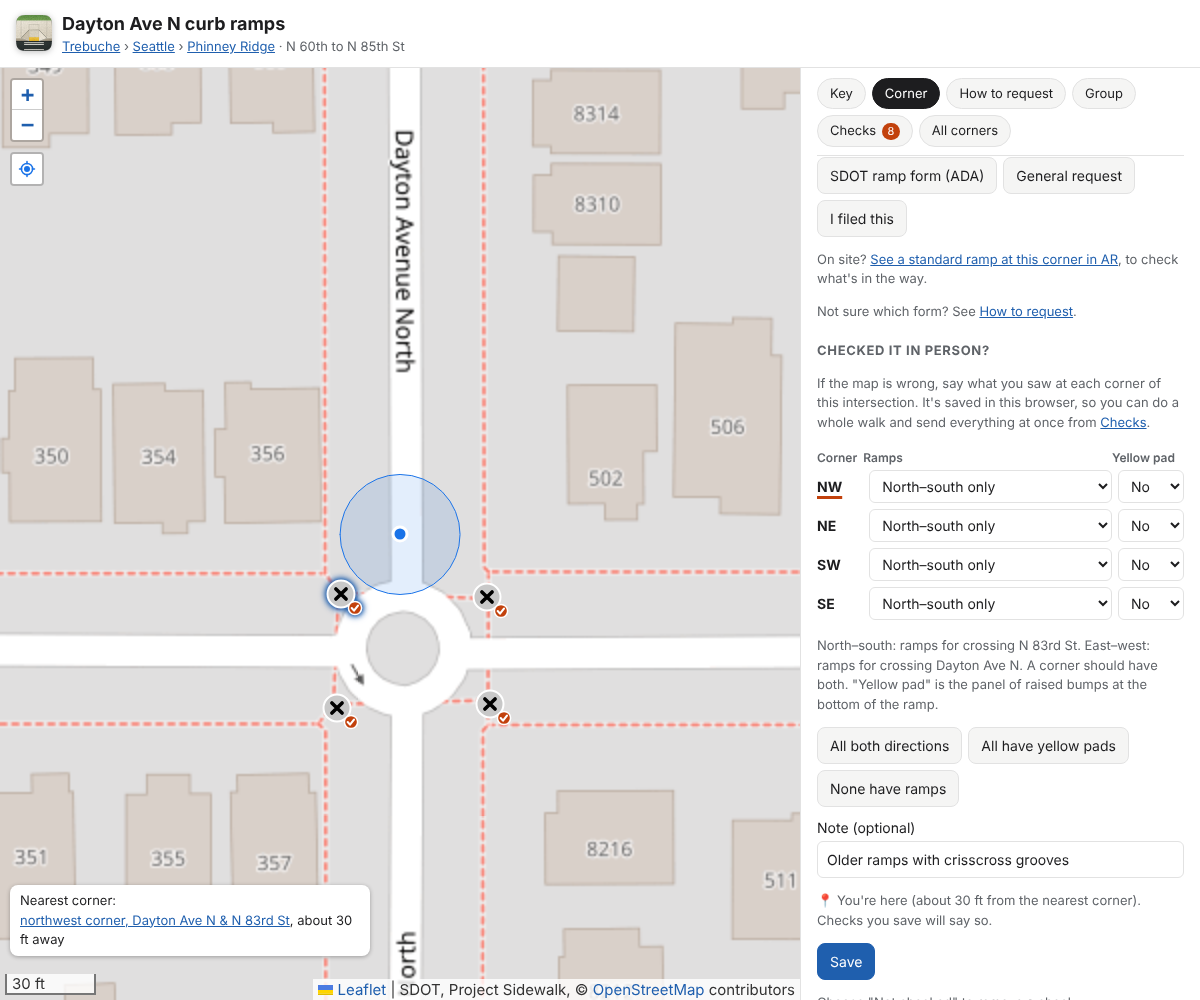
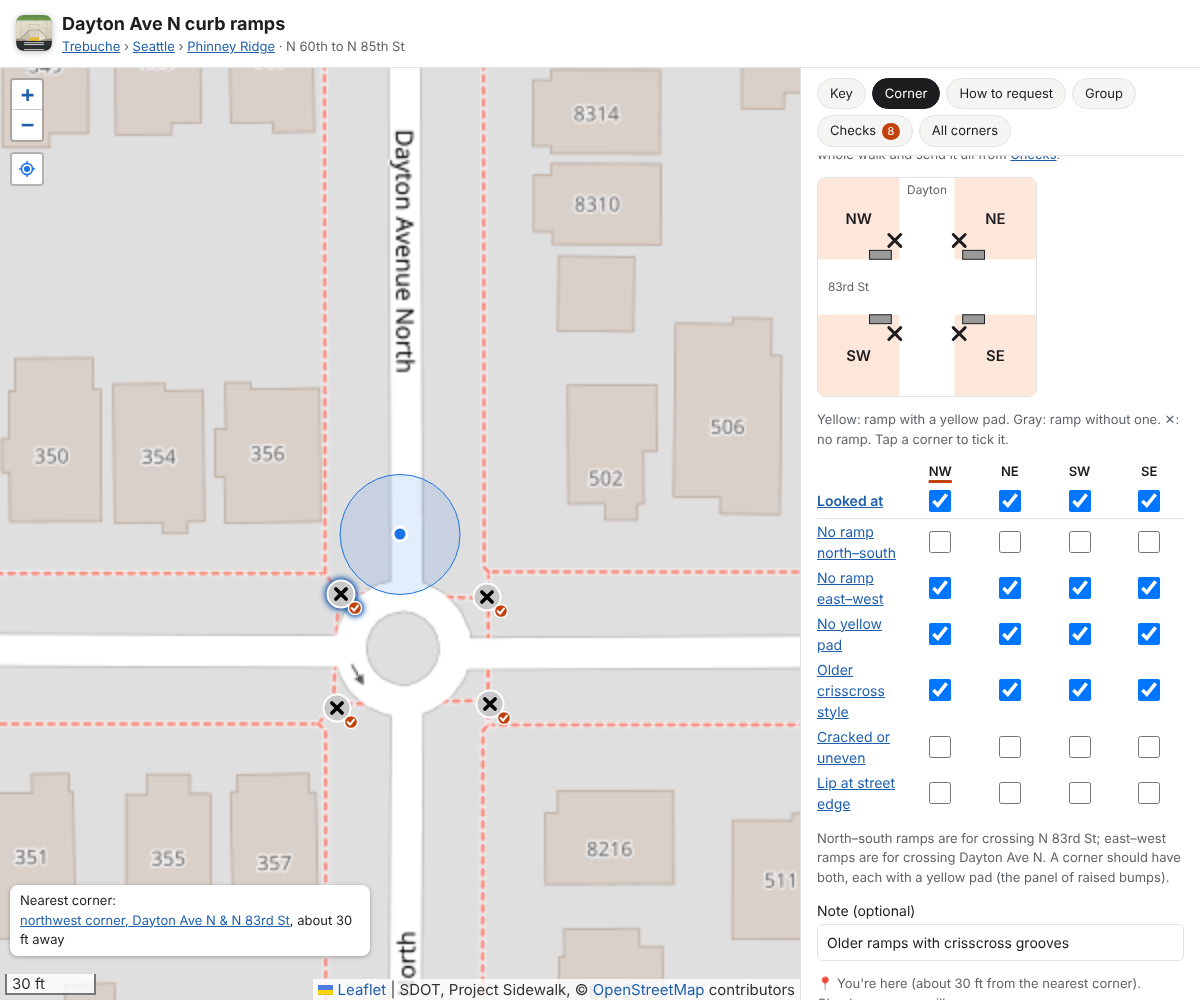
Checks: tick boxes on a grid of corners, with a live plan of the intersection
Replaces the per-corner dropdowns with checkboxes: a column per corner, and rows
for looked at, no ramp north-south, no ramp east-west, no yellow pad, older
crisscross style, cracked or uneven, lip at the street edge. Tapping a row's
name ticks it at every corner, and a plan of the intersection redraws as you
go (tap a corner to tick it). Each corner gets its own attributes. The CSV
columns don't change; checks saved by the previous form are migrated.

Claude-Session: https://claude.ai/code/session_01Sq9k8ApfSWaMUjBKdeSPKZ

Changed region(s): [[0.6783, 0.155, 0.9867, 1.0], [0.8325, 0.744, 0.925, 0.775]]

diff --git a/docs/app.js b/docs/app.js
@@ -132,6 +132,10 @@ const ORIGINAL = new Map(corners.map(c => [c.corner_id, {
   overall: c.overall, confirmed_missing: c.confirmed_missing, missing_crossings: c.missing_crossings,
   sources_disagree: c.sources_disagree, note: c.note,
 }]));
+for (const k of Object.values(checks)) {
+  if (k.pad === "no") k.issues = [...new Set([...(k.issues || "").split("+").filter(Boolean), "no_warning"])].join("+");
+  delete k.pad;
+}
 // Once the published data has the same check (or a newer one), the local copy has done its job.
 for (const c of corners) {
   const k = checks[c.corner_id];
@@ -156,24 +160,24 @@ function checkText(c, rampsFor) {
   return needsOf(c).map(n => `${covered.includes(n) ? "ramp" : "no ramp"} ${crossingName(c, n)}`).join(", ");
 }
 // What's wrong with ramps that are there. Stored as "no_warning+old_style" (ramp_issues column).
+// [checkbox label, words in sentences]
 const RAMP_ISSUES = {
-  no_warning: ["No yellow warning panel (raised bumps)", "no yellow warning panel"],
-  old_style: ["Older style: crisscross grooves on the ramp", "older style with crisscross grooves"],
-  damaged: ["Cracked, broken or uneven", "cracked, broken or uneven"],
-  lip: ["Lip or bump at the street edge", "lip at the street edge"],
+  no_warning: ["No yellow pad", "no yellow pad"],
+  old_style: ["Older crisscross style", "older crisscross style"],
+  damaged: ["Cracked or uneven", "cracked or uneven"],
+  lip: ["Lip at street edge", "lip at the street edge"],
 };
 const issueList = v => (v || "").split("+").filter(k => RAMP_ISSUES[k]);
 const issuesText = v => issueList(v).map(k => RAMP_ISSUES[k][1]).join(", ");
 // The ramp issues that apply to a corner: your own check first, then the published one.
-// A check's yellow-pad answer ("yes"/"no") is kept apart from its other issues.
-const checkIssues = k => [...issueList(k.issues).filter(i => i !== "no_warning"), ...(k.pad === "no" ? ["no_warning"] : [])].join("+");
+const checkIssues = k => issueList(k.issues).join("+");
 const rampIssues = c => (checks[c.corner_id] ? checkIssues(checks[c.corner_id]) : c.field_issues) || "";
 function upgradeText(c) {
   if (!issuesText(rampIssues(c)) || c.overall === "missing") return "";
   const plural = c.overall === "present" && needsOf(c).length > 1;
   const what = issuesText(rampIssues(c));
   return `The existing ramp${plural ? "s here: " : " here: "}${what}.` + (issueList(rampIssues(c)).includes("no_warning")
-    ? " Without the warning panel, people who are blind or have low vision can't tell where the sidewalk ends." : "");
+    ? " Without the yellow pad (detectable warning panel), people who are blind or have low vision can't tell where the sidewalk ends." : "");
 }
 
 // ------------------------------------------------------------------ evidence wording
@@ -181,7 +185,7 @@ function evidence(c) {
   const out = [];
   const k = checks[c.corner_id];
   const iss = s => (issuesText(s) ? ` Ramp condition: ${issuesText(s)}.` : "");
-  if (k) out.push(`Checked in person on ${k.date}: ${checkText(c, k.ramps_for)}.${k.pad === "yes" ? " Yellow warning panel: yes." : ""}${iss(checkIssues(k))}${k.notes ? ` ${k.notes}` : ""}`);
+  if (k) out.push(`Checked in person on ${k.date}: ${checkText(c, k.ramps_for)}.${iss(checkIssues(k))}${k.notes ? ` ${k.notes}` : ""}`);
   else if (c.field_date) out.push(`A neighbor checked in person on ${c.field_date}: ${checkText(c, c.field_covers || "none")}.${iss(c.field_issues)}${c.field_notes ? ` ${c.field_notes}` : ""}`);
   if (c.city === "no record") out.push("SDOT's curb ramp inventory has no ramp recorded at this corner.");
   else if (c.city === "unassessed") out.push("SDOT's inventory only has unassessed placeholder records here (no built ramp).");
@@ -497,35 +501,31 @@ function renderCorner() {
 
     <h2>Checked it in person?</h2>
     <form class="check-form" data-check-form>
-      <p class="small">If the map is wrong, say what you saw at each corner of this intersection. It's saved
-        in this browser, so you can do a whole walk and send everything at once from
+      <p class="small">Tick each corner you looked at, then anything wrong with it. A corner ticked with nothing
+        else means it has ramps both directions with yellow pads. Tap a row's name to tick it at every corner.
+        It's saved in this browser, so you can do a whole walk and send it all from
         <button class="link" type="button" data-goto="checks">Checks</button>.</p>
+      <div class="check-diagram" aria-hidden="true">${checkDiagram(c, formState(here))}</div>
       <table class="check-grid">
-        <tr><th scope="col">Corner</th><th scope="col">Ramps</th><th scope="col">Yellow pad</th></tr>
-        ${here.map(x => {
-          const k = checks[x.corner_id] || {};
-          const opt = (v, label, cur) => `<option value="${v}"${(cur || "") === v ? " selected" : ""}>${esc(label)}</option>`;
-          return `<tr${x.corner_id === c.corner_id ? ' class="here"' : ""}>
-          <th scope="row">${esc(x.corner)}</th>
-          <td><select name="${esc(x.corner_id)}" aria-label="${esc(x.corner)} corner: ramps">
-            ${checkOptions(x).map(([v, label]) => opt(v, label, k.ramps_for)).join("")}</select></td>
-          <td><select name="pad-${esc(x.corner_id)}" aria-label="${esc(x.corner)} corner: yellow pad">
-            ${opt("", "?", k.pad)}${opt("yes", "Yes", k.pad)}${opt("no", "No", k.pad)}</select></td></tr>`;
-        }).join("")}
+        <tr><td></td>${here.map(x => `<th scope="col"${x.corner_id === c.corner_id ? ' class="here"' : ""}>${esc(x.corner)}</th>`).join("")}</tr>
+        ${CHECK_ROWS.map(([row, label, need]) => `<tr${row === "seen" ? ' class="seen"' : ""}>
+          <th scope="row"><button class="link" type="button" data-row="${row}">${esc(label)}</button></th>
+          ${here.map(x => {
+            if (need && !needsOf(x).includes(need)) return `<td class="na">–</td>`;
+            const on = formState([x])[x.corner_id][row];
+            return `<td><input type="checkbox" name="${row}|${esc(x.corner_id)}" ${on ? "checked" : ""}
+              aria-label="${esc(x.corner)} corner: ${esc(label)}"></td>`;
+          }).join("")}</tr>`).join("")}
       </table>
-      ${needsOf(c).length > 1 ? `<p class="small">North–south: ramps for crossing ${esc(baseStreet(c))}. East–west: ramps for crossing ${esc(MAIN_STREET)}.
-        A corner should have both. "Yellow pad" is the panel of raised bumps at the bottom of the ramp.</p>` : ""}
-      <div class="buttons">
-        <button class="button" type="button" data-fill="ramps">All both directions</button>
-        <button class="button" type="button" data-fill="pads">All have yellow pads</button>
-        <button class="button" type="button" data-fill="none">None have ramps</button>
-      </div>
+      ${needsOf(c).length > 1 ? `<p class="small">North–south ramps are for crossing ${esc(baseStreet(c))};
+        east–west ramps are for crossing ${esc(MAIN_STREET)}. A corner should have both, each with a yellow pad
+        (the panel of raised bumps).</p>` : ""}
       <label class="field">Note (optional)
         <input type="text" name="notes" maxlength="200" value="${esc(noteNow)}"
-          placeholder="e.g. older ramps with crisscross grooves"></label>
+          placeholder="e.g. NE ramp points into the middle of the intersection"></label>
       <p class="small" id="check-where">${whereText(c)}</p>
       <div class="buttons"><button class="button primary" type="submit">Save</button></div>
-      <p class="small">Choose "Not checked" to remove a check.</p>
+      <p class="small">Untick "Looked at" to remove a corner's check.</p>
     </form>
 
     <h2>What each source says</h2>
@@ -559,33 +559,54 @@ document.getElementById("corner-detail").addEventListener("click", e => {
   if (b.dataset.action === "copy-link") copy(shareUrl({ corner: shortId(c.corner_id) }), "Link copied");
   if (b.dataset.action === "toggle-select") { toggleSelected(c.corner_id); renderCorner(); }
 });
+// Ticking anything at a corner marks it as looked at; unticking "Looked at" clears it.
+// Tapping a row's name ticks that row at every corner (or unticks it if all were ticked).
+function checkboxes(form, row) {
+  return [...form.querySelectorAll("input[type=checkbox]")].filter(i => !row || i.name.startsWith(`${row}|`));
+}
+function syncChecks(form) {
+  form.querySelector(".check-diagram").innerHTML =
+    checkDiagram(byId.get(state.corner), formState(intersectionCorners(byId.get(state.corner)), form));
+}
+document.getElementById("corner-detail").addEventListener("change", e => {
+  const i = e.target;
+  if (!i.form?.matches("[data-check-form]") || i.type !== "checkbox") return;
+  const [row, id] = i.name.split("|");
+  if (row !== "seen" && i.checked) i.form.elements[`seen|${id}`].checked = true;
+  if (row === "seen" && !i.checked) checkboxes(i.form).filter(x => x.name.endsWith(`|${id}`)).forEach(x => { x.checked = false; });
+  syncChecks(i.form);
+});
 document.getElementById("corner-detail").addEventListener("click", e => {
-  const b = e.target.closest("[data-fill]");
+  const b = e.target.closest("[data-row], [data-corner-toggle]");
   if (!b) return;
-  for (const x of intersectionCorners(byId.get(state.corner))) {
-    const ramps = b.form.elements[x.corner_id], pad = b.form.elements[`pad-${x.corner_id}`];
-    if (b.dataset.fill === "ramps") ramps.value = needsOf(x).join("+");
-    if (b.dataset.fill === "none") { ramps.value = "none"; pad.value = ""; }
-    if (b.dataset.fill === "pads") { pad.value = "yes"; if (!ramps.value || ramps.value === "none") ramps.value = needsOf(x).join("+"); }
+  const form = b.closest("form");
+  if (b.dataset.cornerToggle) {
+    const box = form.elements[`seen|${b.dataset.cornerToggle}`];
+    box.checked = !box.checked;
+    box.dispatchEvent(new Event("change", { bubbles: true }));
+    return;
   }
+  const boxes = checkboxes(form, b.dataset.row), on = !boxes.every(x => x.checked);
+  boxes.forEach(x => { x.checked = on; x.dispatchEvent(new Event("change", { bubbles: true })); });
 });
 document.getElementById("corner-detail").addEventListener("submit", e => {
   if (!e.target.matches("[data-check-form]")) return;
   e.preventDefault();
-  const f = new FormData(e.target), date = new Date().toLocaleDateString("en-CA"); // YYYY-MM-DD, local
-  const notes = String(f.get("notes") || "").trim().replace(/\s+/g, " ");
+  const form = e.target, date = new Date().toLocaleDateString("en-CA"); // YYYY-MM-DD, local
+  const notes = String(form.elements.notes.value || "").trim().replace(/\s+/g, " ");
+  const here = intersectionCorners(byId.get(state.corner)), st = formState(here, form);
   let saved = 0;
-  for (const x of intersectionCorners(byId.get(state.corner))) {
-    const v = f.get(x.corner_id);
-    if (!v) { delete checks[x.corner_id]; }
+  for (const x of here) {
+    const a = st[x.corner_id];
+    if (!a.seen) { delete checks[x.corner_id]; }
     else {
-      const old = checks[x.corner_id];
+      const covered = needsOf(x).filter(n => !a[n === "main" ? "miss_ew" : "miss_ns"]);
+      const ramps_for = covered.length ? covered.join("+") : "none";
+      const issues = ramps_for === "none" ? "" : Object.keys(RAMP_ISSUES).filter(i => a[i]).join("+");
+      const old = checks[x.corner_id], fix = onSite(x);
       // Re-saving the same answer keeps its date and "sent" mark.
-      // Issues the form doesn't ask about (e.g. old_style from an earlier version) are kept.
-      const fix = onSite(x), pad = v === "none" ? "" : f.get(`pad-${x.corner_id}`) || "";
-      const issues = v === "none" ? "" : issueList(old?.issues).filter(i => i !== "no_warning").join("+");
-      checks[x.corner_id] = old && old.ramps_for === v && (old.pad || "") === pad && (old.notes || "") === notes &&
-        (!fix || old.distance_ft) ? old : { date, ramps_for: v, pad, issues, notes, ...fix };
+      checks[x.corner_id] = old && old.ramps_for === ramps_for && (old.issues || "") === issues &&
+        (old.notes || "") === notes && (!fix || old.distance_ft) ? old : { date, ramps_for, issues, notes, ...fix };
       saved++;
     }
     applyCheck(x);
@@ -636,12 +657,71 @@ function intersectionCorners(c) {
   return corners.filter(x => x.intersection_id === c.intersection_id)
     .sort((a, b) => order.indexOf(a.corner) - order.indexOf(b.corner));
 }
-function checkOptions(c) {
-  const n = needsOf(c);
-  if (n.length === 1) return [["", "Not checked"], [n[0], "Ramp"], ["none", "No ramp"]];
-  // Every street so far runs north–south, so crossing it means walking east–west.
-  return [["", "Not checked"], ["main+cross", "Both directions"],
-    ["cross", "North–south only"], ["main", "East–west only"], ["none", "No ramps"]];
+// [row, label, the crossing the corner must need for the row to apply]
+// Every street so far runs north–south: its ramps for crossing it face east–west.
+const CHECK_ROWS = [
+  ["seen", "Looked at", null],
+  ["miss_ns", "No ramp north–south", "cross"],
+  ["miss_ew", "No ramp east–west", "main"],
+  ...Object.entries(RAMP_ISSUES).map(([k, [label]]) => [k, label, null]),
+];
+const dirName = n => (n === "main" ? "east–west" : "north–south");
+
+// { corner_id: { seen, miss_ns, miss_ew, no_warning, ... } } from the form, or from saved checks.
+function formState(cs, form) {
+  const out = {};
+  for (const x of cs) {
+    const a = out[x.corner_id] = {};
+    if (form) {
+      for (const [row] of CHECK_ROWS) a[row] = !!form.elements[`${row}|${x.corner_id}`]?.checked;
+    } else if (checks[x.corner_id]) {
+      const k = checks[x.corner_id], covered = coveredBy(k.ramps_for);
+      a.seen = true;
+      for (const n of needsOf(x)) a[n === "main" ? "miss_ew" : "miss_ns"] = !covered.includes(n);
+      for (const i of issueList(k.issues)) a[i] = true;
+    }
+  }
+  return out;
+}
+
+// A plan of the intersection: the main street runs up and down. Each corner has a slot
+// for each ramp it needs, at the curb by its crosswalk: yellow for a ramp with a pad,
+// gray without one, an X for no ramp, dashed while the corner isn't looked at.
+function checkDiagram(c, st) {
+  const S = 220, A = 82, B = 138; // street edges
+  const parts = [
+    `<rect width="${S}" height="${S}" fill="var(--soft)"/>`,
+    `<rect x="${A}" width="${B - A}" height="${S}" fill="var(--street)"/>`,
+    `<rect y="${A}" width="${S}" height="${B - A}" fill="var(--street)"/>`,
+    `<text x="${(A + B) / 2}" y="16" text-anchor="middle" class="street-name">${esc(AREA.short)}</text>`,
+    `<text x="10" y="${(A + B) / 2 + 4}" class="street-name">${esc(baseStreet(c).replace(/^[NSEW]+ /, ""))}</text>`,
+  ];
+  for (const x of intersectionCorners(c)) {
+    const west = x.corner.endsWith("W"), north = x.corner.startsWith("N");
+    const cx = west ? A : B, cy = north ? A : B, sx = west ? -1 : 1, sy = north ? -1 : 1;
+    const a = st[x.corner_id] || {};
+    const block = `x="${west ? 0 : B}" y="${north ? 0 : B}" width="${A}" height="${A}"`;
+    parts.push(`<g data-corner-toggle="${esc(x.corner_id)}" class="corner${a.seen ? " seen" : ""}">
+      <rect ${block} fill="${a.seen ? "var(--checked-soft)" : "transparent"}"/>
+      <text x="${west ? A / 2 : B + A / 2}" y="${north ? A / 2 : B + A / 2}" dy=".35em" text-anchor="middle" class="corner-name">${x.corner}</text></g>`);
+    for (const n of needsOf(x)) {
+      // north–south ramp sits on the curb along the cross street; east–west on the main street's curb
+      const [w, h] = n === "cross" ? [22, 9] : [9, 22];
+      const rx = n === "cross" ? cx + sx * 8 + (sx < 0 ? -w : 0) : cx + (sx < 0 ? -h * 0 - w : 0);
+      const ry = n === "cross" ? cy + (sy < 0 ? -h : 0) : cy + sy * 8 + (sy < 0 ? -h : 0);
+      const missing = a[n === "main" ? "miss_ew" : "miss_ns"];
+      if (!a.seen) {
+        parts.push(`<rect x="${rx}" y="${ry}" width="${w}" height="${h}" fill="none" stroke="var(--muted)" stroke-dasharray="3 2"/>`);
+      } else if (missing) {
+        const mx = rx + w / 2, my = ry + h / 2;
+        parts.push(`<path d="M${mx - 6},${my - 6}L${mx + 6},${my + 6}M${mx + 6},${my - 6}L${mx - 6},${my + 6}" stroke="var(--fg)" stroke-width="3" stroke-linecap="round"/>`);
+      } else {
+        parts.push(`<rect x="${rx}" y="${ry}" width="${w}" height="${h}" fill="${a.no_warning ? "#9a9a9a" : "#f2c200"}" stroke="var(--fg)" stroke-width="1"/>`);
+      }
+    }
+  }
+  return `<svg viewBox="0 0 ${S} ${S}" width="${S}" height="${S}">${parts.join("")}</svg>
+    <p class="small">Yellow: ramp with a yellow pad. Gray: ramp without one. ✕: no ramp. Tap a corner to tick it.</p>`;
 }
 
 // ------------------------------------------------------------------ checks: review + send
@@ -650,25 +730,29 @@ function checksCsv(cs) {
   return ["corner_id,date_checked,ramps_for,yellow_pad,ramp_issues,notes,distance_ft,accuracy_ft",
     ...cs.map(c => {
       const k = checks[c.corner_id];
-      const other = issueList(k.issues).filter(i => i !== "no_warning").join("+");
-      return [c.corner_id, k.date, k.ramps_for, k.pad || "", other, k.notes || "", k.distance_ft ?? "", k.accuracy_ft ?? ""].map(csvCell).join(",");
+      const iss = issueList(k.issues), other = iss.filter(i => i !== "no_warning").join("+");
+      const pad = k.ramps_for === "none" ? "" : iss.includes("no_warning") ? "no" : "yes";
+      return [c.corner_id, k.date, k.ramps_for, pad, other, k.notes || "", k.distance_ft ?? "", k.accuracy_ft ?? ""].map(csvCell).join(",");
     }),
   ].join("\n");
 }
-// "N 79th St: ramps both ways at all 4 corners" / "N 78th St: ramps both ways at NE, SE; no ramps at SW"
-const answerLabel = (c, v) => checkOptions(c).find(([k]) => k === v)?.[1].replace(/^\w/, ch => ch.toLowerCase()) || v;
+// "no ramp east–west, no yellow pad, older crisscross style at all 4 corners; ramps both directions at NE"
+function cornerDescription(c, k) {
+  const covered = coveredBy(k.ramps_for), need = needsOf(c);
+  if (!covered.length) return need.length > 1 ? "no ramps" : "no ramp";
+  const miss = need.filter(n => !covered.includes(n));
+  return [miss.length ? miss.map(n => `no ramp ${dirName(n)}`).join(", ") : need.length > 1 ? "ramps both directions" : "ramp",
+    ...issueList(k.issues).map(i => RAMP_ISSUES[i][1])].join(", ");
+}
 function intersectionSummary(cs) {
   const byAnswer = new Map();
   for (const c of cs) {
-    const k = checks[c.corner_id];
-    const label = answerLabel(c, k.ramps_for) + (k.ramps_for === "none" ? "" : k.pad === "yes" ? " with yellow pad" : k.pad === "no" ? " without yellow pad" : "");
+    const label = cornerDescription(c, checks[c.corner_id]);
     byAnswer.set(label, [...(byAnswer.get(label) || []), c.corner]);
   }
   const total = intersectionCorners(cs[0]).length;
-  const issues = [...new Set(cs.map(c => issuesText(issueList(checks[c.corner_id].issues).filter(i => i !== "no_warning").join("+"))).filter(Boolean))];
   return [...byAnswer].map(([label, where]) =>
-    `${label} ${where.length === total && total > 1 ? `at all ${total} corners` : `at ${where.join(", ")}`}`).join("; ") +
-    (issues.length ? `; ramps: ${issues.join("; ")}` : "");
+    `${label} ${where.length === total && total > 1 ? `at all ${total} corners` : `at ${where.join(", ")}`}`).join("; ");
 }
 const checkGroups = cs => groupByIntersection(cs).map(g => [`${MAIN_STREET} & ${baseStreet(g[0])}`, g]);
 

diff --git a/docs/style.css b/docs/style.css
@@ -11,17 +11,21 @@
   --filed: #138a72;
   --selected: #1f5fae;
   --checked: #c2410c;
+  --checked-soft: #fde7da;
+  --street: #ffffff;
   --panel-w: 400px;
 }
 @media (prefers-color-scheme: dark) {
   :root:not([data-theme="light"]) {
     --bg: #17181a; --fg: #ececec; --muted: #a4a7ab; --line: #34363a; --soft: #222326;
     --accent: #78a9ec; --accent-fg: #0d1520;
+    --checked-soft: #4a2414; --street: #3a3c40;
   }
 }
 :root[data-theme="dark"] {
   --bg: #17181a; --fg: #ececec; --muted: #a4a7ab; --line: #34363a; --soft: #222326;
   --accent: #78a9ec; --accent-fg: #0d1520;
+  --checked-soft: #4a2414; --street: #3a3c40;
 }
 
 * { box-sizing: border-box; }
@@ -70,15 +74,21 @@ h3 { font-size: 16px; margin: 0 0 4px; }
 .check-form .field { display: block; font-size: 14px; margin: 8px 0; }
 .check-form .field input { display: block; width: 100%; margin-top: 3px; padding: 7px 9px; font: inherit;
   border: 1px solid var(--line); border-radius: 6px; background: var(--bg); color: var(--fg); }
-.check-grid { border-collapse: collapse; margin: 6px 0; width: 100%; }
-.check-grid th { text-align: left; font-size: 14px; padding: 4px 6px 4px 0; }
-.check-grid th[scope=row] { width: 3em; }
-.check-grid th[scope=col] { font-size: 12px; font-weight: 600; color: var(--muted); padding-bottom: 0; }
-.check-grid th[scope=col]:last-child { width: 6em; }
-.check-grid td { padding: 3px 0 3px 6px; }
-.check-grid tr.here th { text-decoration: underline 3px var(--checked); text-underline-offset: 4px; }
-.check-grid select { width: 100%; padding: 6px 8px; font: inherit; font-size: 14px; border: 1px solid var(--line);
-  border-radius: 6px; background: var(--bg); color: var(--fg); }
+.check-diagram { margin: 8px 0; }
+.check-diagram svg { display: block; max-width: 100%; height: auto; border: 1px solid var(--line); border-radius: 8px; }
+.check-diagram .corner { cursor: pointer; }
+.check-diagram .corner-name { font: 600 15px system-ui, sans-serif; fill: var(--fg); }
+.check-diagram .street-name { font: 12px system-ui, sans-serif; fill: var(--muted); }
+.check-grid { border-collapse: collapse; margin: 6px 0; width: 100%; font-size: 14px; }
+.check-grid th[scope=row] { text-align: left; font-weight: 400; padding: 2px 6px 2px 0; }
+.check-grid th[scope=row] .link { text-align: left; }
+.check-grid th[scope=col] { font-size: 13px; font-weight: 600; padding: 0 0 2px; }
+.check-grid th[scope=col].here { text-decoration: underline 3px var(--checked); text-underline-offset: 4px; }
+.check-grid td { text-align: center; padding: 0; width: 15%; }
+.check-grid td.na { color: var(--muted); }
+.check-grid tr.seen { border-bottom: 1px solid var(--line); }
+.check-grid tr.seen th .link { font-weight: 600; }
+.check-grid input[type=checkbox] { width: 22px; height: 22px; margin: 6px; cursor: pointer; }
 ul.checks { list-style: none; padding: 0; margin: 8px 0; }
 ul.checks li { border-top: 1px solid var(--line); padding: 8px 0; }
 

diff --git a/README.md b/README.md
@@ -353,13 +353,16 @@ intersection, then to a quadrant.
 ## Checking corners in person
 
 The sources can be years out of date, so the map lets neighbors record what they see.
-On any corner, **Checked it in person?** covers the whole intersection, with two answers
-per corner: which way its ramps go (**both directions**, **north–south only** for
-crossing the side street, **east–west only** for crossing the main street, **no ramps**, or
-not checked) and whether they have a **yellow pad** (the detectable warning panel).
-Older one-direction ramps without a pad, like every corner of Dayton & N 83rd St, are
-two taps per corner. Shortcuts fill in **All both directions**, **All have yellow
-pads** or **None have ramps**, and one note covers anything else. There's no server: checks
+On any corner, **Checked it in person?** covers the whole intersection with checkboxes:
+one column per corner, and rows for **Looked at**, **No ramp north–south** (for crossing
+the side street), **No ramp east–west** (for crossing the main street), **No yellow pad**,
+**Older crisscross style**, **Cracked or uneven** and **Lip at street edge**. A corner
+ticked with nothing else has ramps both directions with yellow pads. Tapping a row's name
+ticks it at every corner, so an intersection like Dayton & N 83rd St (older ramps,
+north–south only, no pads, at all four corners) is three taps. Above the grid, a plan of
+the intersection redraws as boxes are ticked (yellow ramp: with a pad, gray: without, ✕:
+no ramp), and tapping a corner on it ticks **Looked at**. One note covers anything else.
+There's no server: checks
 are saved in the browser (`localStorage`, key `trebuche:checks`, shared by every
 street's map) and the corners are redrawn right away for that visitor, with an orange
 check. With location on (the locate button), the form says whether the phone is at the
@@ -388,8 +391,7 @@ corner wins over every other source and sets `overall` (a check that finds no ra
 counts as confirmed missing), unless SDOT recorded work there after the check.
 `yellow_pad` is `yes`, `no` or blank (not noted). `ramp_issues` lists anything else
 wrong with the ramps, joined with `+`: `old_style` (crisscross grooves), `damaged`,
-`lip`; the form doesn't ask about these, but they can be added from an issue's notes. A
-`no` pad (Standard Plan 422k requires one) or any issue makes the corner say **Needs upgrade**, and their
+`lip`. A `no` pad (Standard Plan 422k requires one) or any issue makes the corner say **Needs upgrade**, and their
 request text asks SDOT to upgrade the ramp as well as add any missing one.
 `distance_ft` and `accuracy_ft` are blank for checks saved without location; the build
 doesn't use them yet, they're there for whoever reviews the issue. The CSV
